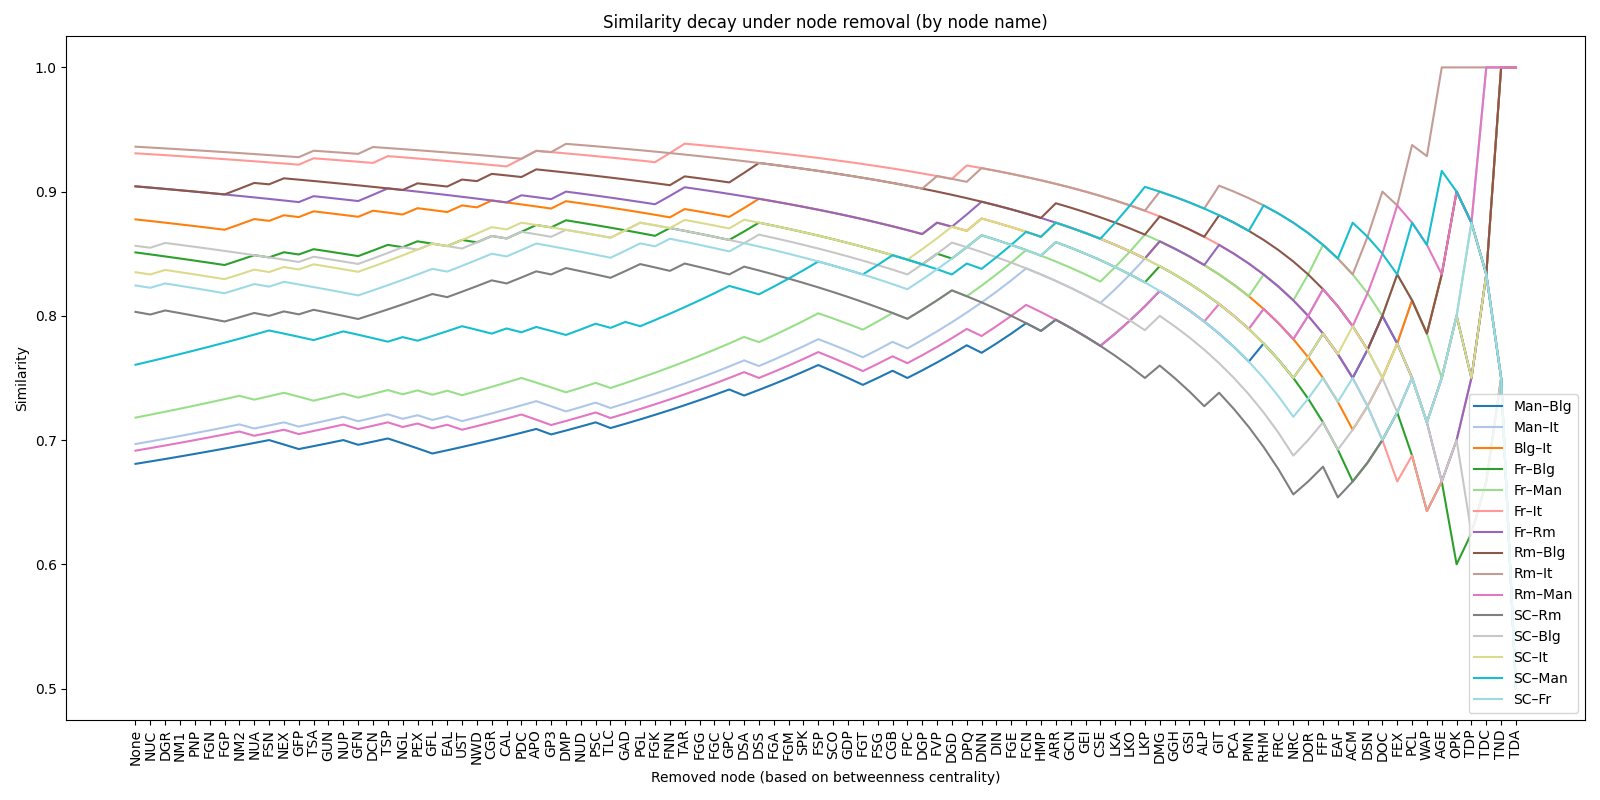
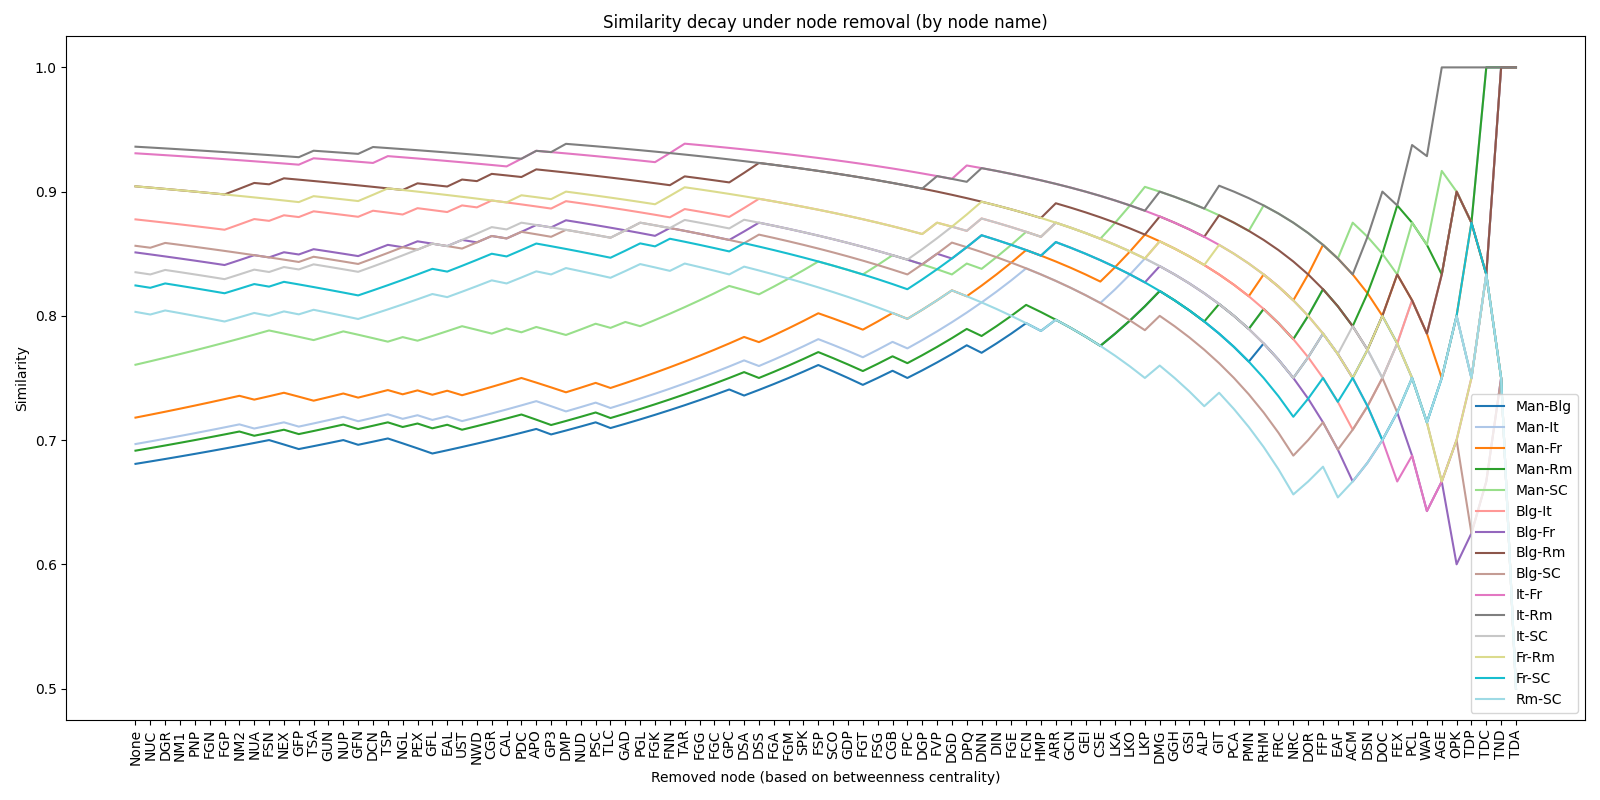
Refactor

diff --git a/centrality.py b/centrality.py
@@ -4,6 +4,7 @@ import numpy as np
 import matplotlib.pyplot as plt
 from scipy.spatial.distance import squareform
 from scipy.cluster import hierarchy
+from itertools import combinations
 
 # ===============================
 # PARAMETERS
@@ -17,7 +18,6 @@ LANGUAGES_TO_COMPARE = ["Man", "Blg", "It", "Fr", "Rm", "SC"]
 # ===============================
 
 df = pd.read_excel("TableA_94_2025.xlsx")
-# df.drop(df.columns[-5:], axis=1, inplace=True)
 
 labels = df["Label"].dropna().tolist()
 implications = df["Implicational Condition(s)"]
@@ -32,7 +32,7 @@ base_graph.add_nodes_from(labels)
 for node, imp in zip(labels, implications):
     if not pd.notna(imp):
         continue
-    imp = imp.translate({ord(k): " " for k in "()+-¬,−"})
+    imp = imp.translate({ord(k): " " for k in "()+-¬,-"})
     imp = imp.replace("or", " ")
     imp = imp.split()
     for n in imp:
@@ -147,12 +147,7 @@ def analyze_centrality(centrality_function, centrality_name, metric_label):
     
     plt.figure(figsize=(16, 8))
 
-    pairs = [
-        ("Man", "Blg"), ("Man", "It"), ("Blg", "It"),
-        ("Fr", "Blg"), ("Fr", "Man"), ("Fr", "It"),
-        ("Fr", "Rm"), ("Rm", "Blg"), ("Rm", "It"), ("Rm", "Man"),
-        ("SC", "Rm"), ("SC", "Blg"), ("SC", "It"), ("SC", "Man"), ("SC", "Fr")
-    ]
+    pairs = list(combinations(LANGUAGES_TO_COMPARE, 2))
 
     cmap = plt.get_cmap("tab20")
     colors = cmap(np.linspace(0, 1, len(pairs)))
@@ -246,25 +241,12 @@ def analyze_centrality(centrality_function, centrality_name, metric_label):
         plt.barh(df_plot["node"], df_plot["delta_similarity"])
         plt.axvline(0, linestyle="--")
         plt.xlabel("Δ Similarity")
-        plt.title(f"Most impactful nodes: {lang1}–{lang2}")
+        plt.title(f"Most impactful nodes: {lang1}-{lang2}")
         plt.tight_layout()
-        plt.show()
+        plt.close()
 
-    plot_node_impacts(impact_results[("Man", "Blg")], "Man", "Blg")
-    plot_node_impacts(impact_results[("Man", "It")], "Man", "It")
-    plot_node_impacts(impact_results[("Blg", "It")], "Blg", "It")
-    plot_node_impacts(impact_results[("Fr", "It")], "Fr", "It")
-    plot_node_impacts(impact_results[("Fr", "Rm")], "Fr", "Rm")
-    plot_node_impacts(impact_results[("Fr", "Blg")], "Fr", "Blg")
-    plot_node_impacts(impact_results[("Fr", "Man")], "Fr", "Man")
-    plot_node_impacts(impact_results[("Rm", "Blg")], "Rm", "Blg")
-    plot_node_impacts(impact_results[("Rm", "Man")], "Rm", "Man")
-    plot_node_impacts(impact_results[("Rm", "It")], "Rm", "It")
-    plot_node_impacts(impact_results[("SC", "Blg")], "SC", "Blg")
-    plot_node_impacts(impact_results[("SC", "Man")], "SC", "Man")
-    plot_node_impacts(impact_results[("SC", "It")], "SC", "It")
-    plot_node_impacts(impact_results[("SC", "Fr")], "SC", "Fr")
-    plot_node_impacts(impact_results[("SC", "Rm")], "SC", "Rm")
+    for l1, l2 in pairs:
+        plot_node_impacts(impact_results[(l1, l2)], l1, l2)
 
     # FULL CENTRALITY TABLE
 
